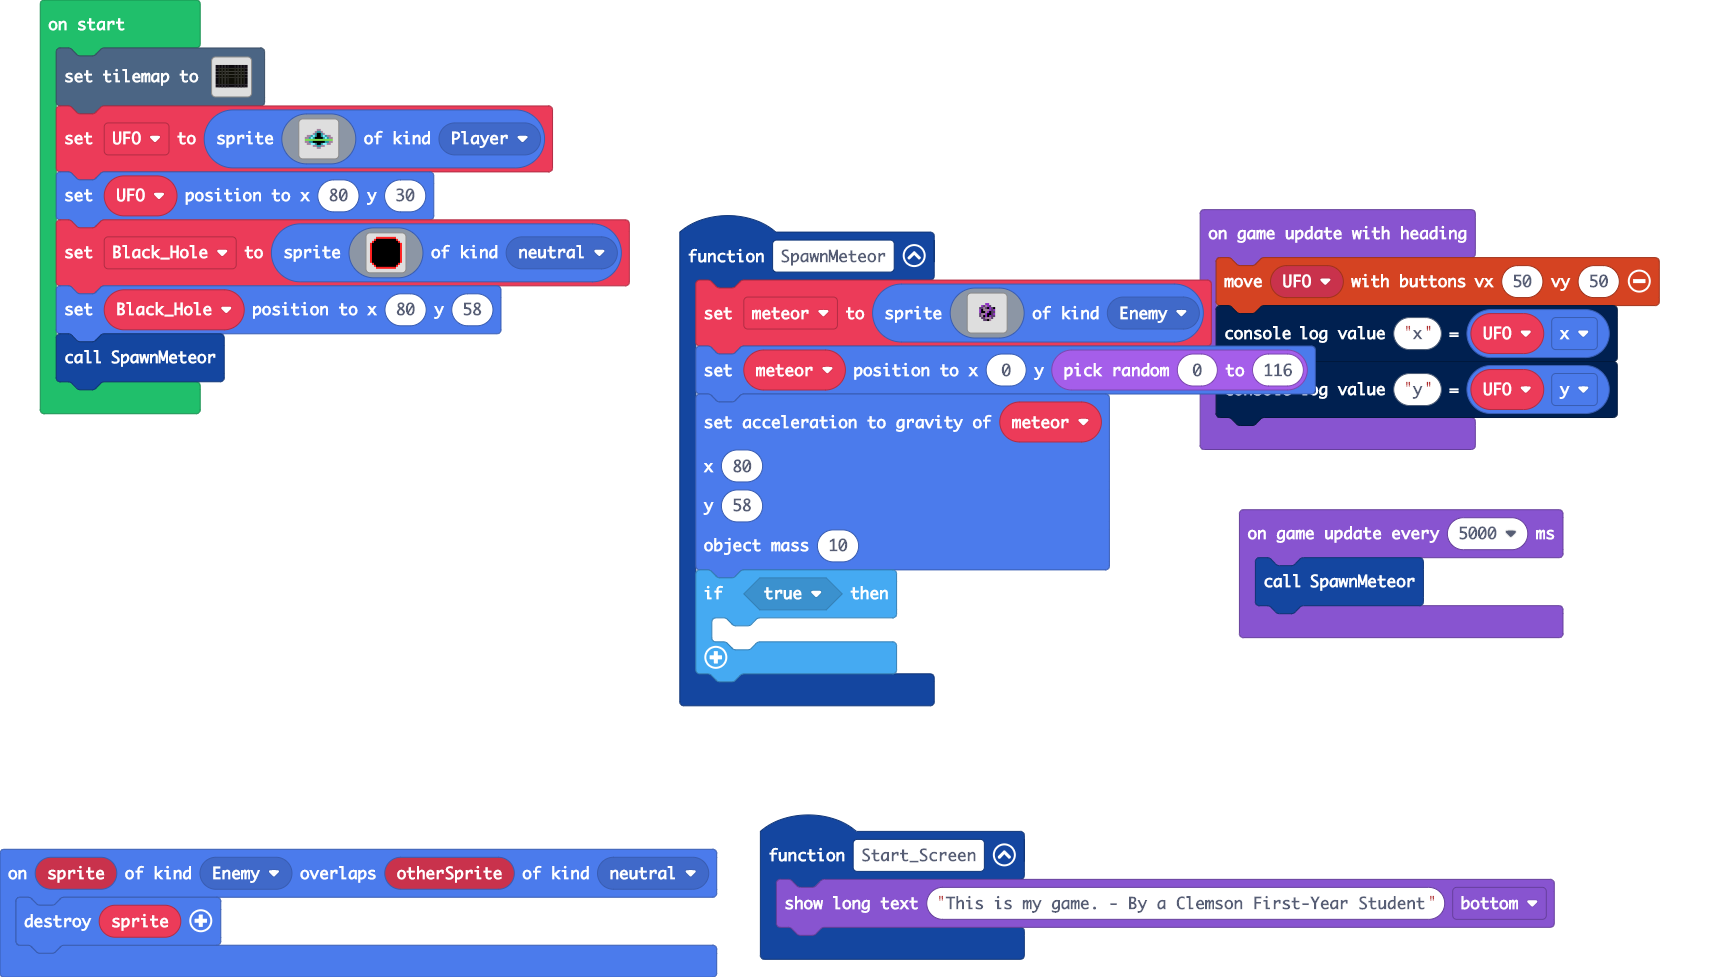
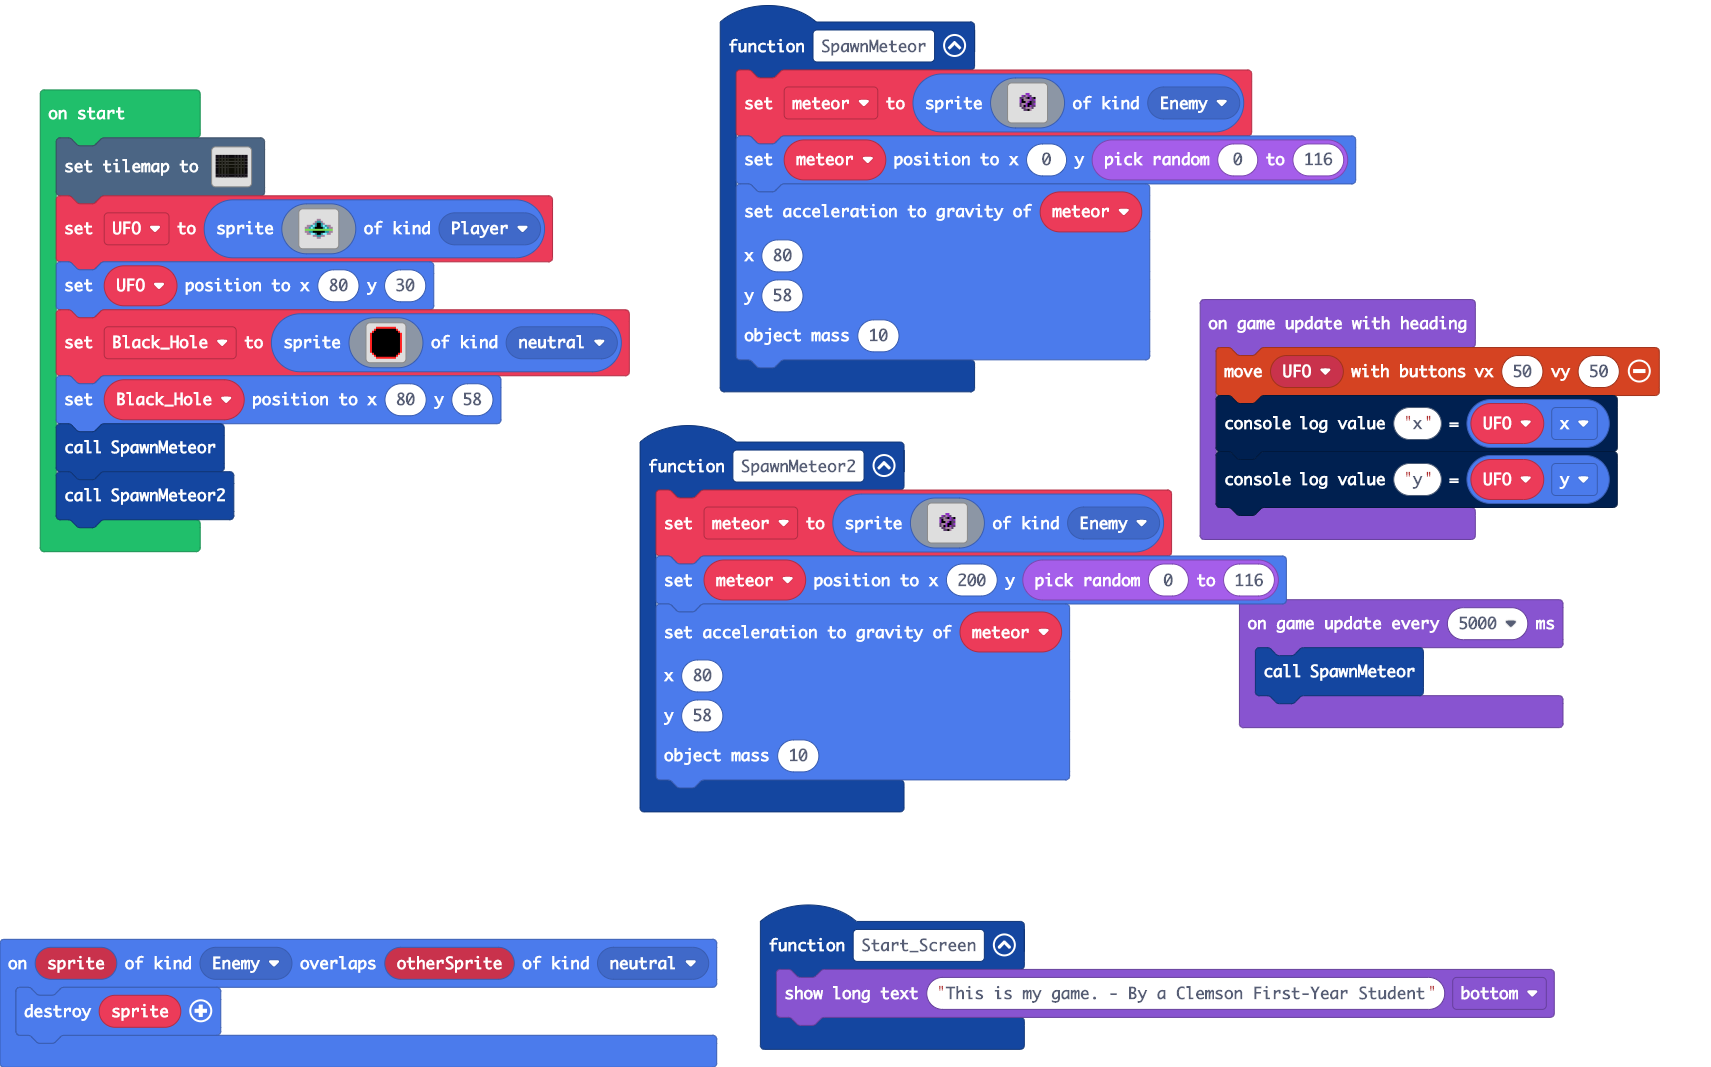
Update main.blocks, main.ts

diff --git a/main.ts b/main.ts
@@ -6,6 +6,33 @@ game.onGameUpdateWithHeading(function () {
     console.logValue("x", UFO.x)
     console.logValue("y", UFO.y)
 })
+function SpawnMeteor2 () {
+    meteor = sprites.create(img`
+        . . . . . . . . . . . . . . . . 
+        . . . . . . . . . . . . . . . . 
+        . . . . . . . . . . . . . . . . 
+        . . . . . . . a a . . . . . . . 
+        . . . . . a c b a c . . . . . . 
+        . . . . c c b c f a c f . . . . 
+        . . . . a f b b b a c a . . . . 
+        . . . . a f f b a f c c . . . . 
+        . . . . c b b a f f c a . . . . 
+        . . . . c b f a f a c c . . . . 
+        . . . . . c c b b b c . . . . . 
+        . . . . . . c c f b . . . . . . 
+        . . . . . . . . . . . . . . . . 
+        . . . . . . . . . . . . . . . . 
+        . . . . . . . . . . . . . . . . 
+        . . . . . . . . . . . . . . . . 
+        `, SpriteKind.Enemy)
+    meteor.setPosition(200, randint(0, 116))
+    sprites.setInstant2DGravityAcceleration(
+    meteor,
+    80,
+    58,
+    10
+    )
+}
 sprites.onOverlap(SpriteKind.Enemy, SpriteKind.neutral, function (sprite, otherSprite) {
     sprite.destroy()
 })
@@ -38,9 +65,6 @@ function SpawnMeteor () {
     58,
     10
     )
-    if (true) {
-    	
-    }
 }
 let meteor: Sprite = null
 let UFO: Sprite = null
@@ -92,6 +116,7 @@ let Black_Hole = sprites.create(img`
     `, SpriteKind.neutral)
 Black_Hole.setPosition(80, 58)
 SpawnMeteor()
+SpawnMeteor2()
 game.onUpdateInterval(5000, function () {
     SpawnMeteor()
 })
